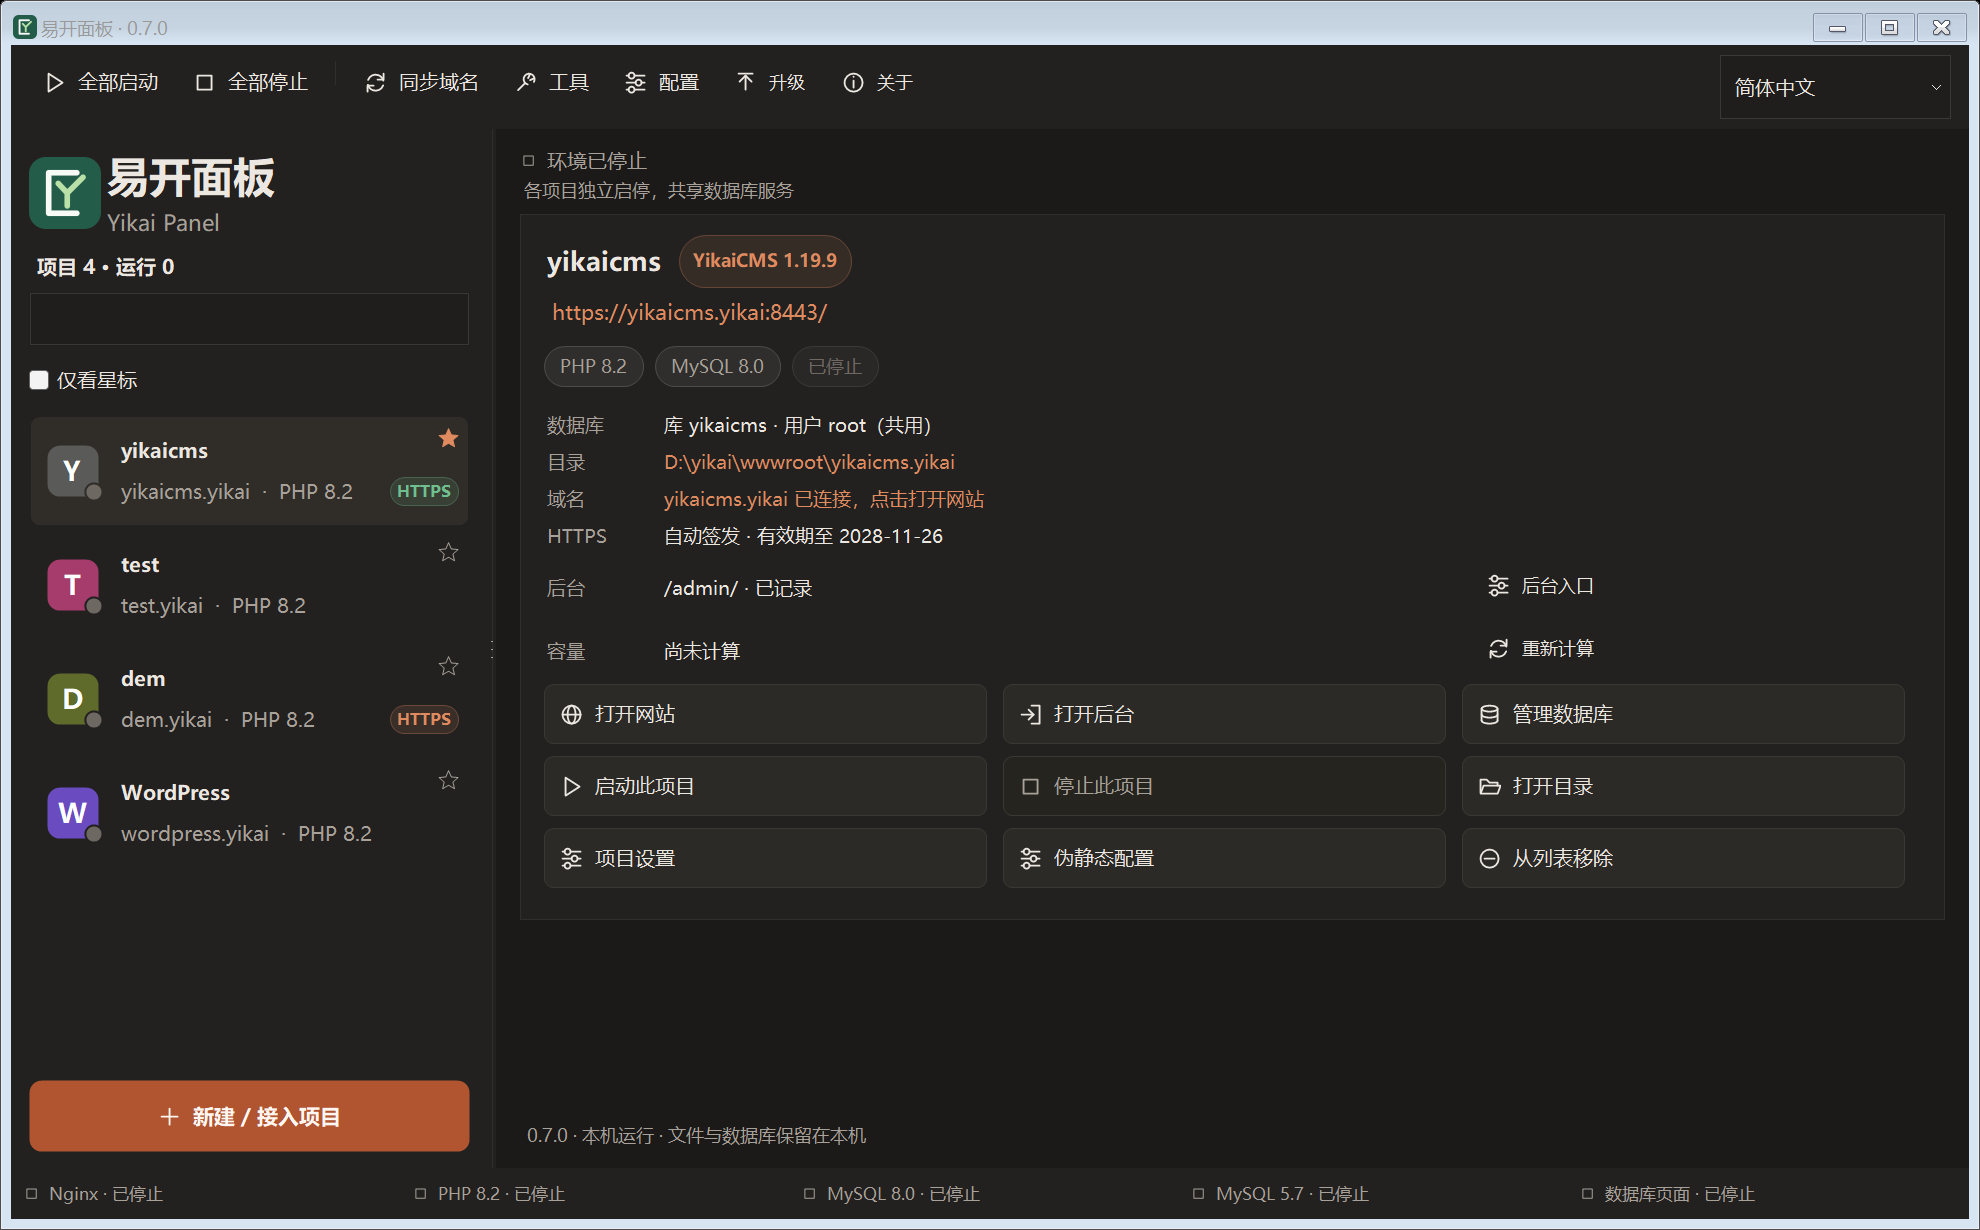
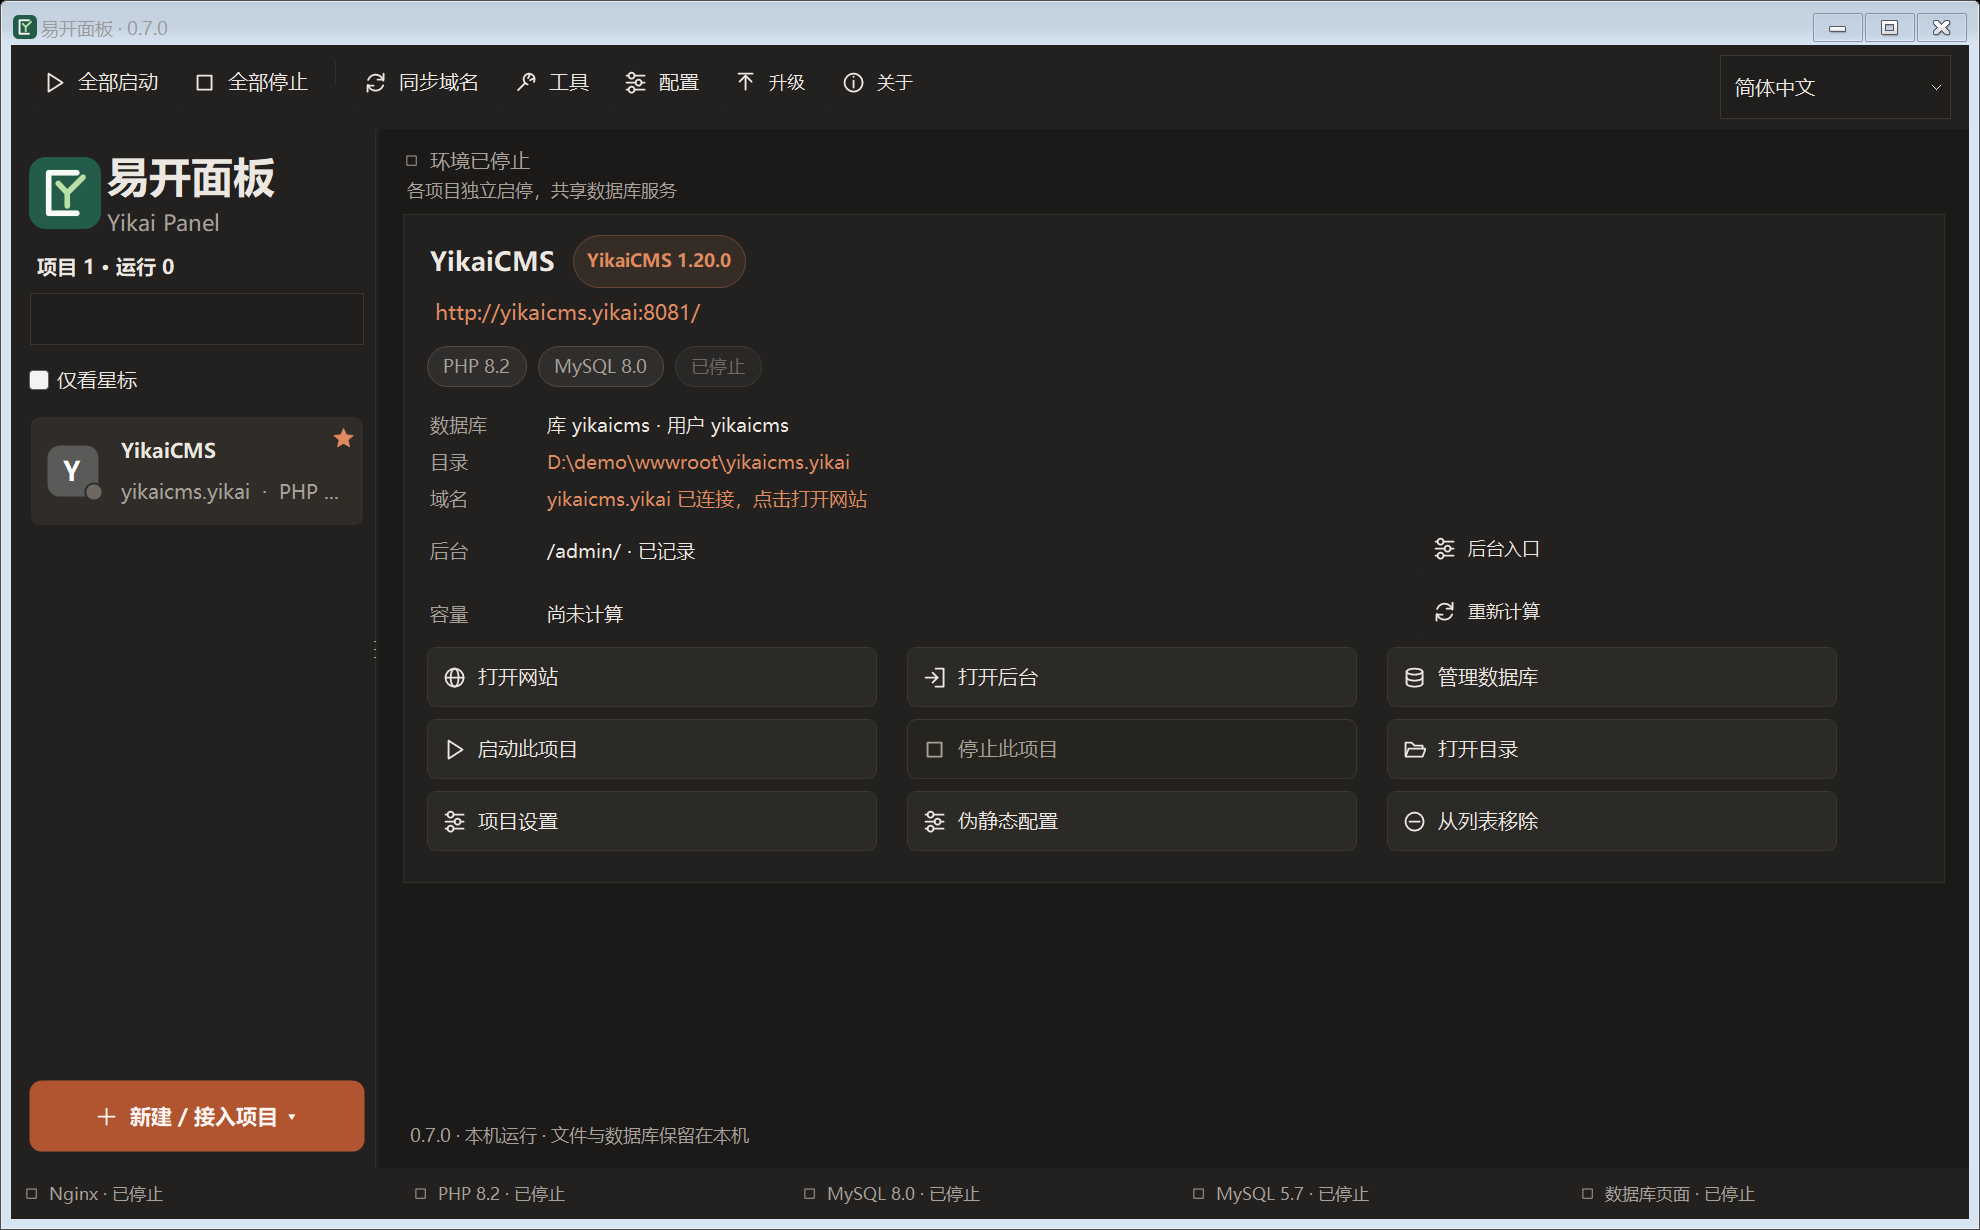
docs: add Japanese introduction and refresh demo screenshots

diff --git a/README.md b/README.md
@@ -168,3 +168,25 @@ redistribution, and commercial use, subject to its notice and attribution requir
 Panel / 易开面板” names and logos are governed separately by the [trademark policy](TRADEMARKS.md).
 Third-party components retain their own licenses; see [THIRD-PARTY-NOTICES.md](THIRD-PARTY-NOTICES.md).
 YikaiCMS is a separate product and is **not** part of this repository.
+
+---
+
+## 日本語
+
+**Yikai Panel（易开面板）**は、Windows 向けのローカル PHP 開発環境です。1つのインストーラーと
+1つの画面から、Nginx または Apache、PHP 8.0 / 8.2 / 8.5、MySQL 5.7 / 8.0、SQLite を使う
+複数の Web サイトを実行できます。
+
+- プロジェクトを作成すると、フォルダー、データベース、仮想ホスト、hosts エントリを自動で準備します。
+- プロジェクトごとにドメイン（`name.yikai`）、PHP バージョン、データベース、HTTPS 証明書、リライトルールを個別に管理できます。
+- 開発用ポート（8081 / 8443 / 3308）が使用中なら自動で空きポートを選びます。80 / 443 / 3306 に固定することもでき、競合時は使用中のプロセスを表示します。
+- ポート診断、LAN 共有、ローカル認証局による SSL 証明書、PHP 拡張機能の切り替え、元の環境を変更しない PHPStudy 移行に対応しています。
+- UI は中国語、英語、日本語に対応し、ライト／ダークテーマと文字サイズを変更できます。
+
+インストーラーは [GitHub Releases](https://github.com/bluesailor/yikai-panel/releases/latest) からダウンロードできます
+（Windows 10 / 11 x64、管理者権限は不要です）。ソースからビルドする場合は .NET 9 SDK が必要です。
+
+本プロジェクトは [Apache License 2.0](LICENSE) で公開されています。「Yikai Panel / 易开面板」の名称と
+ロゴは [商標ポリシー](TRADEMARKS.md) の対象です。第三者コンポーネントのライセンスは
+[THIRD-PARTY-NOTICES.md](THIRD-PARTY-NOTICES.md) を参照してください。YikaiCMS は別製品であり、
+このリポジトリには含まれていません。
